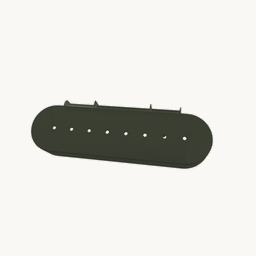
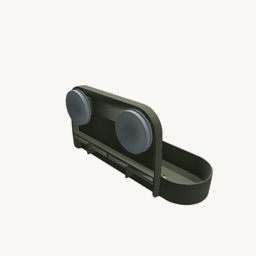
More pose/view overrides (blue_alarm 45, frame_oak 45, frog_cup 90, green_*); v15

Changed region(s): [[0.0938, 0.3125, 0.8438, 0.8125]]

diff --git a/docs/gallery.html b/docs/gallery.html
@@ -222,7 +222,7 @@
         card.onkeydown = (e) => { if (e.key === 'Enter') go(); };
 
         const thumb = obj.thumb
-          ? `<img src="objects/${obj.id}/thumb.png?v=14" alt="${escapeHtml(obj.label)}" loading="lazy" onerror="this.parentElement.innerHTML='<div class=placeholder>&#9645;</div>'">`
+          ? `<img src="objects/${obj.id}/thumb.png?v=15" alt="${escapeHtml(obj.label)}" loading="lazy" onerror="this.parentElement.innerHTML='<div class=placeholder>&#9645;</div>'">`
           : '<div class="placeholder">&#9645;</div>';
         card.innerHTML = `
           <div class="frame">${thumb}</div>

diff --git a/wiki/gallery.html b/wiki/gallery.html
@@ -222,7 +222,7 @@
         card.onkeydown = (e) => { if (e.key === 'Enter') go(); };
 
         const thumb = obj.thumb
-          ? `<img src="objects/${obj.id}/thumb.png?v=14" alt="${escapeHtml(obj.label)}" loading="lazy" onerror="this.parentElement.innerHTML='<div class=placeholder>&#9645;</div>'">`
+          ? `<img src="objects/${obj.id}/thumb.png?v=15" alt="${escapeHtml(obj.label)}" loading="lazy" onerror="this.parentElement.innerHTML='<div class=placeholder>&#9645;</div>'">`
           : '<div class="placeholder">&#9645;</div>';
         card.innerHTML = `
           <div class="frame">${thumb}</div>

diff --git a/wiki/render_thumbnails.py b/wiki/render_thumbnails.py
@@ -44,16 +44,20 @@ POSE_OVERRIDE = {
     "fruit_cutter_base": "004",
     "fruit_cutter_green": "001",   # 009/010/019 were impossible poses
     "fruit_cutter_light_green": "000",   # 010/028/001 were impossible poses
+    "green_attached_container": "008",
+    "green_lamp": "001",
+    "green_soap_dispenser": "002",
 }
 
 # Per-object camera-direction override (object frame, +z up), for objects whose
 # default 3/4 view faces an uninteresting side.
 VIEW_OVERRIDE = {
-    "blue_alarm": np.array([-0.6, -1.0, 0.4]),   # front-3/4 rotated 180deg about +z
+    "blue_alarm": np.array([-0.283, 1.131, 0.4]),  # front-3/4 rotated 45deg about +z
     "blue_vase": np.array([1.0, 0.65, 0.55]),    # default view rotated 90deg about +z
     "clock": np.array([0.248, 1.166, 0.55]),     # default 3/4 view rotated 135deg about +z
     "donut_light": np.array([1.0, 0.65, 0.55]),  # default view rotated 90deg about +z
-    "frame_oak": np.array([-0.65, 1.0, 0.55]),   # default view rotated 180deg about +z
+    "frame_oak": np.array([1.166, -0.248, 0.55]),  # default view rotated 45deg about +z
+    "frog_cup": np.array([1.0, 0.65, 0.55]),       # default view rotated 90deg about +z
     "balloon_whisk": np.array([1.0, 0.65, 0.55]),  # default view rotated 90deg about +z
     "black_holder_with_handle": np.array([-0.541, -1.063, 0.55]),  # default view rotated 300deg
     "container_pink": np.array([1.098, 0.466, 0.55]),  # default view rotated 80deg about +z
